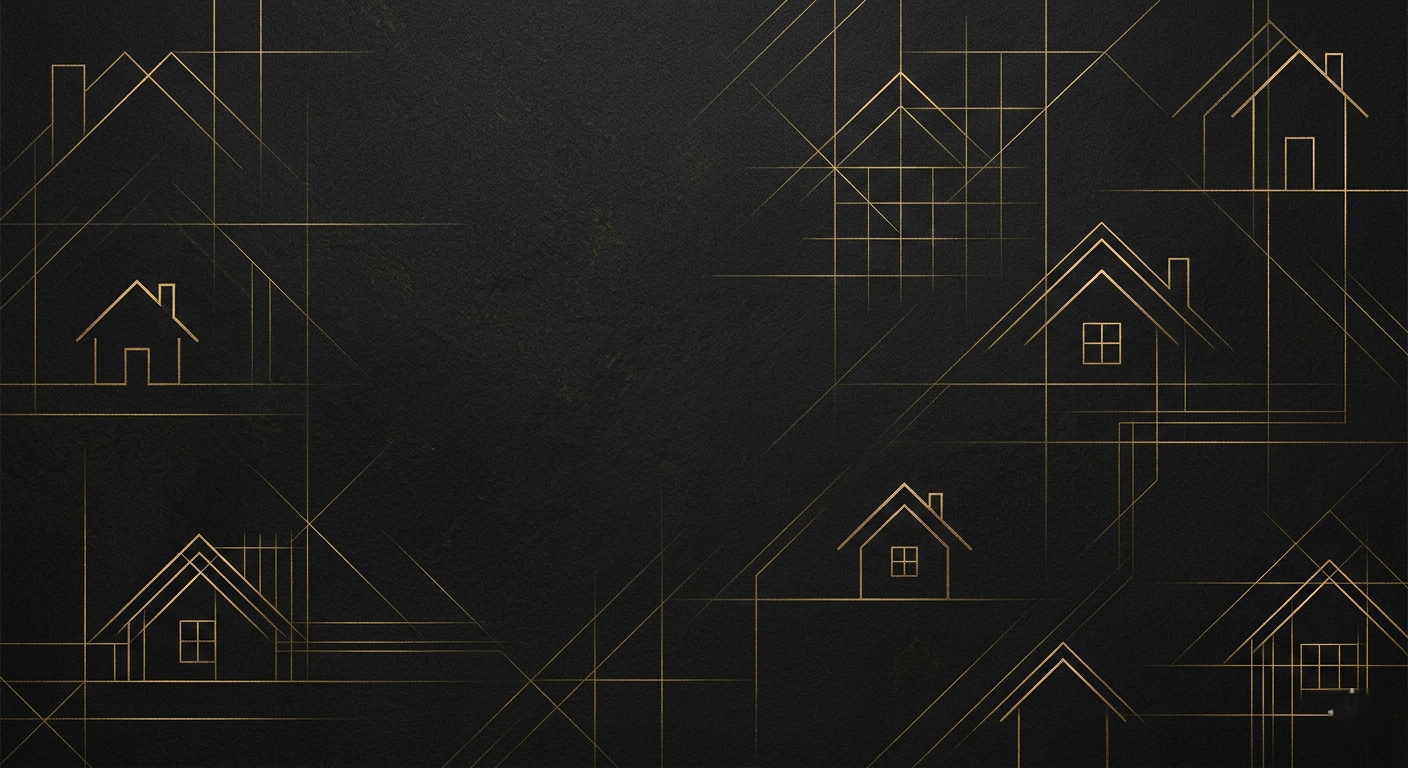
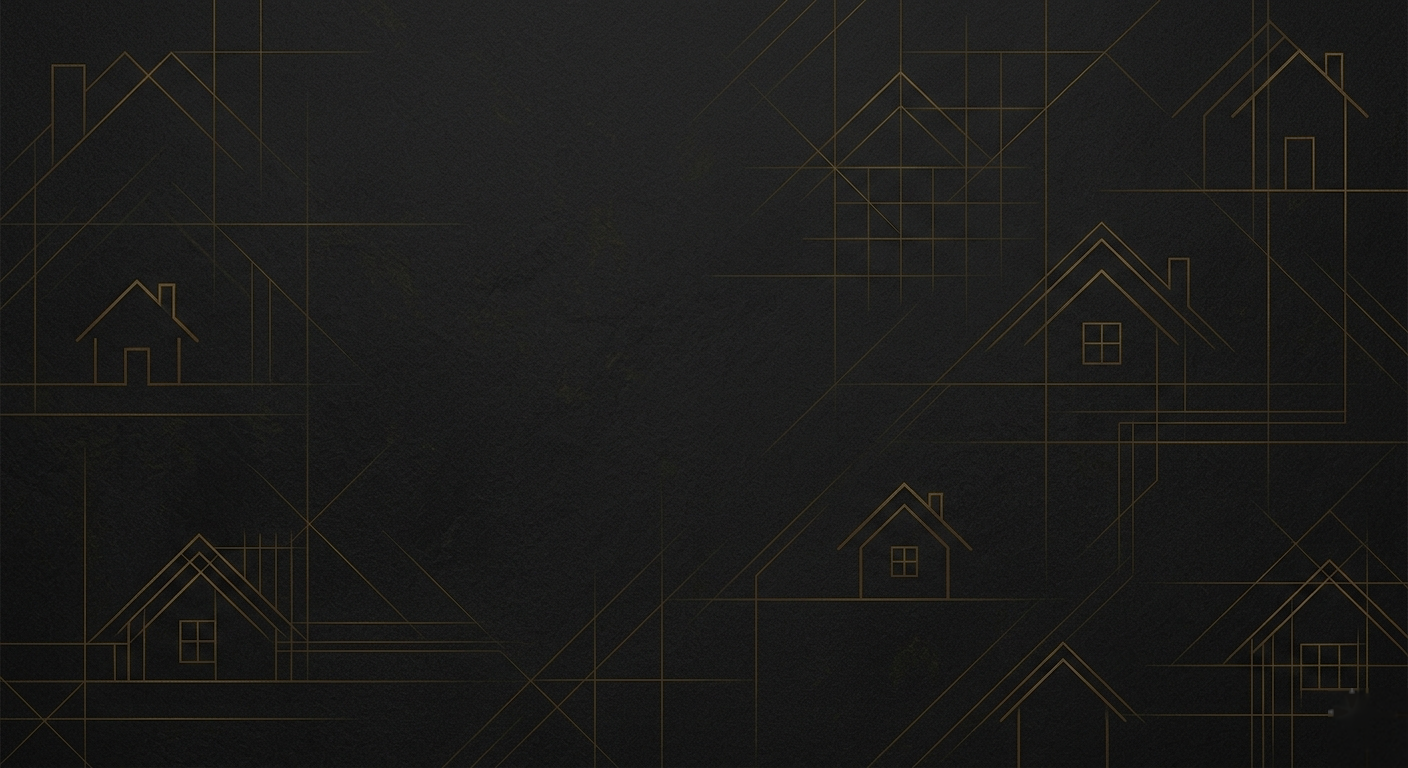
Darken gold lines below original brightness

diff --git a/index.html b/index.html
@@ -146,8 +146,8 @@ DATA BACKUP REMINDER:
 </svg>
 <style>
 *{box-sizing:border-box;margin:0;padding:0}
-html{scroll-behavior:smooth;width:100vw !important;max-width:100vw !important;overscroll-behavior:none;background:#0a0b0f url('https://raw.githubusercontent.com/tml828/apex-homes/main/Gemini_Generated_Image_d4zq21d4zq21d4zq.png?v=5') center center / cover no-repeat fixed}html{width:100vw !important;max-width:100vw !important;overscroll-behavior:none}body{overflow-x:hidden;width:100vw;max-width:100vw;box-sizing:border-box;overscroll-behavior:none}*{box-sizing:border-box}
-body{font-family:'Segoe UI',system-ui,-apple-system,sans-serif;background:#0a0b0f url('https://raw.githubusercontent.com/tml828/apex-homes/main/Gemini_Generated_Image_d4zq21d4zq21d4zq.png?v=5') center center / cover no-repeat fixed;color:#e2ddd4;min-height:100vh;-webkit-font-smoothing:antialiased;font-weight:400;;font-size:16px}
+html{scroll-behavior:smooth;width:100vw !important;max-width:100vw !important;overscroll-behavior:none;background:#0a0b0f url('https://raw.githubusercontent.com/tml828/apex-homes/main/Gemini_Generated_Image_d4zq21d4zq21d4zq.png?v=6') center center / cover no-repeat fixed}html{width:100vw !important;max-width:100vw !important;overscroll-behavior:none}body{overflow-x:hidden;width:100vw;max-width:100vw;box-sizing:border-box;overscroll-behavior:none}*{box-sizing:border-box}
+body{font-family:'Segoe UI',system-ui,-apple-system,sans-serif;background:#0a0b0f url('https://raw.githubusercontent.com/tml828/apex-homes/main/Gemini_Generated_Image_d4zq21d4zq21d4zq.png?v=6') center center / cover no-repeat fixed;color:#e2ddd4;min-height:100vh;-webkit-font-smoothing:antialiased;font-weight:400;;font-size:16px}
 :root{
   --gold:#c9a84c;--gold2:#e8c96a;--gold3:#f5d878;--gold-dim:#7a5e28;
   --gold-bg:rgba(201,168,76,0.08);--gold-bg2:rgba(201,168,76,0.15);--gold-bg3:rgba(201,168,76,0.25);
